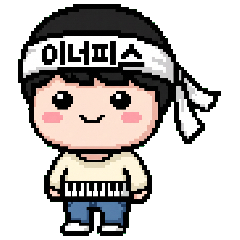
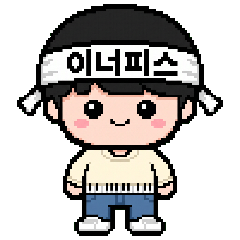
게임 화면 확대(비율 유지), 유경 울릉도, 본혁 정면, 수연 단추눈 확대, 차분한 가을 도시 배경, 선택창 캐릭터 축소

diff --git a/game.js b/game.js
@@ -3,9 +3,13 @@
   const cv = $('cv'), ctx = cv.getContext('2d');
   const overlay = $('over');
 
-  const PLAYER_H = 78;        // 캐릭터 그리는 높이(px)
-  const HIT_R = 20;           // 캐릭터 판정 반지름(그림보다 작게 — 억울한 피격 방지)
-  const PAD_Y = PLAYER_H / 2; // 스프라이트가 위아래로 잘리지 않게 두는 여백
+  const BASE_W = 480;         // 이 폭을 기준으로 모든 크기를 비례해서 키운다
+  const PLAYER_H0 = 78;       // 기준 폭에서의 캐릭터 높이(px)
+  const HIT_R0 = 20;          // 기준 폭에서의 판정 반지름 (그림보다 작게 — 억울한 피격 방지)
+  let k = 1;                  // 화면 배율
+  const playerH = () => PLAYER_H0 * k;
+  const hitR = () => HIT_R0 * k;
+  const padY = () => playerH() / 2;   // 스프라이트가 위아래로 잘리지 않게 두는 여백
   const LIVES = 3;
   const INVULN = 0.8;         // 피격 후 무적 시간(초)
   const FEVER = 5;            // 피버타임 길이(초)
@@ -121,9 +125,10 @@
   }
 
   function resize() {
-    W = Math.min(480, window.innerWidth - 30);
-    H = Math.min(640, window.innerHeight - 190);
+    W = Math.min(620, window.innerWidth - 30);
+    H = Math.min(830, window.innerHeight - 170);
     if (H < 320) H = 320;
+    k = W / BASE_W;
     const dpr = window.devicePixelRatio || 1;
     cv.style.width = W + 'px';
     cv.style.height = H + 'px';
@@ -131,8 +136,8 @@
     cv.height = Math.round(H * dpr);
     ctx.setTransform(dpr, 0, 0, dpr, 0, 0);
     ctx.imageSmoothingEnabled = false;
-    px = state === 'playing' ? clamp(px, HIT_R, W - HIT_R) : W / 2;
-    py = H - PAD_Y;                       // 바닥 고정. 세로로는 움직이지 않는다
+    px = state === 'playing' ? clamp(px, hitR(), W - hitR()) : W / 2;
+    py = H - padY();                      // 바닥 고정. 세로로는 움직이지 않는다
     if (art) draw();
   }
 
@@ -141,7 +146,7 @@
     elapsed = 0; lives = LIVES; invuln = 0; spawnTimer = 0;
     fever = 0; feverTimer = FEVER_EVERY * 0.6; points = 0;
     Bgm.setFever(false);
-    px = W / 2; py = H - PAD_Y;
+    px = W / 2; py = H - padY();
     state = 'playing';
     overlay.classList.add('hide');
     updateHud();
@@ -180,20 +185,20 @@
       kind, w, h, rot: 0, spin,
       x: Math.random() * Math.max(1, W - w),
       y: -h - 4,
-      vy,
-      vx: (Math.random() - 0.5) * 90        // 좌우로도 흘러서 세로만 피해서는 안 된다
+      vy: vy * k,
+      vx: (Math.random() - 0.5) * 90 * k    // 좌우로도 흘러서 세로만 피해서는 안 된다
     });
   }
 
   function spawn() {
     const d = difficulty(elapsed);
     const kind = art.hazards[Math.floor(Math.random() * art.hazards.length)];
-    push(kind, 30 + Math.random() * 12, 250 + Math.random() * 110 + d * 430,
+    push(kind, (30 + Math.random() * 12) * k, 250 + Math.random() * 110 + d * 430,
          (Math.random() - 0.5) * 2.5);
   }
 
   function spawnFever() {
-    push(art.fever, 36, 190 + Math.random() * 50, 0);
+    push(art.fever, 36 * k, 190 + Math.random() * 50, 0);
   }
 
   function hits(it) {
@@ -203,7 +208,7 @@
     const y1 = it.y + my, y2 = it.y + it.h - my;
     const nx = clamp(px, x1, x2), ny = clamp(py, y1, y2);
     const dx = px - nx, dy = py - ny;
-    return dx * dx + dy * dy < HIT_R * HIT_R;
+    return dx * dx + dy * dy < hitR() * hitR();
   }
 
   function loop(now) {
@@ -290,7 +295,7 @@
     // 무적 중에는 캐릭터가 깜빡인다
     const blink = state === 'playing' && fever <= 0 && invuln > 0 && Math.floor(invuln * 12) % 2 === 0;
     if (!blink) {
-      const ph = PLAYER_H, pw = ph * (art.player.width / art.player.height);
+      const ph = playerH(), pw = ph * (art.player.width / art.player.height);
       ctx.globalAlpha = state === 'over' ? 0.55 : 1;
       ctx.drawImage(art.player, px - pw / 2, py - ph / 2, pw, ph);
       ctx.globalAlpha = 1;
@@ -298,12 +303,12 @@
 
     if (fever > 0) {                       // 피버 중임을 화면 테두리로 알린다
       ctx.strokeStyle = Math.floor(fever * 8) % 2 ? '#ffe14d' : '#ff4f8b';
-      ctx.lineWidth = 6;
-      ctx.strokeRect(3, 3, W - 6, H - 6);
+      ctx.lineWidth = 6 * k;
+      ctx.strokeRect(3 * k, 3 * k, W - 6 * k, H - 6 * k);
     }
 
     ctx.textAlign = 'center';
-    ctx.font = 'bold 16px Galmuri, monospace';
+    ctx.font = `bold ${Math.round(16 * k)}px Galmuri, monospace`;
     for (const p of pops) {
       ctx.globalAlpha = Math.max(0, 1 - p.t / 0.7);
       ctx.fillStyle = p.good ? '#ffe14d' : '#ff5577';
@@ -320,7 +325,7 @@
   cv.addEventListener('pointermove', e => {
     if (state !== 'playing') return;
     const r = cv.getBoundingClientRect();
-    px = clamp(e.clientX - r.left, HIT_R, W - HIT_R);   // 좌우만 따라간다
+    px = clamp(e.clientX - r.left, hitR(), W - hitR());   // 좌우만 따라간다
   });
   cv.addEventListener('pointerdown', e => e.preventDefault());
 

diff --git a/index.html b/index.html
@@ -52,14 +52,14 @@
     text-shadow: 2px 2px 0 rgba(255,255,255,.6);
   }
   .arrow:hover { color: #e8407a; }
-  .side { width: 86px; height: 110px; display: flex; align-items: flex-end; justify-content: center; }
-  .side img { height: 84px; width: 84px; opacity: .5; }
+  .side { width: 68px; height: 86px; display: flex; align-items: flex-end; justify-content: center; }
+  .side img { height: 62px; width: 62px; opacity: .5; }
 
   #frame {
-    width: 176px; height: 176px; background: #fff;
+    width: 132px; height: 132px; background: #fff;
     display: flex; align-items: center; justify-content: center;
   }
-  #frame img { height: 168px; width: 168px; }
+  #frame img { height: 124px; width: 124px; }
 
   #meta { margin-top: 18px; }
   #cname { font-size: 33px; font-weight: 700; text-shadow: 2px 2px 0 rgba(255,255,255,.7); }
@@ -89,7 +89,7 @@
   #play { display: none; width: 100%; flex-direction: column; align-items: center; padding: 14px 12px 26px; }
   #play.on { display: flex; }
   #bar {
-    width: 100%; max-width: 480px;
+    width: 100%; max-width: 620px;
     display: flex; align-items: center; justify-content: space-between; gap: 8px;
     background: #fff; border: 4px solid #17263f; padding: 8px 10px; margin-bottom: 8px;
     font-size: 12px; font-weight: 700;
@@ -122,7 +122,7 @@
   #over .s { font-size: 12px; line-height: 1.9; font-weight: 700; }
   #over .h { font-size: 11px; line-height: 1.9; color: #4b5f80; }
   #over .btns { display: flex; gap: 8px; margin-top: 4px; flex-wrap: wrap; justify-content: center; }
-  #tips { margin-top: 12px; font-size: 11px; line-height: 1.9; text-align: center; max-width: 480px; }
+  #tips { margin-top: 12px; font-size: 11px; line-height: 1.9; text-align: center; max-width: 620px; }
 </style>
 </head>
 <body>

diff --git a/chars.js b/chars.js
@@ -10,7 +10,7 @@ const CHARS = [
     fever: { img: 'fev-headphones', name: '헤드폰' } },
   { id: 'seungil', name: '승일', team: '마케팅2팀',  tint: '#ffdfb0', want: '칸쿤',
     fever: { img: 'fev-bat',        name: '박쥐' } },
-  { id: 'yukyung', name: '유경', team: '사업전략',   tint: '#d7eec6', want: '밴쿠버',
+  { id: 'yukyung', name: '유경', team: '사업전략',   tint: '#d7eec6', want: '울릉도',
     fever: { img: 'fev-filmreel',   name: '필름 릴' } },
   { id: 'hyunho',  name: '현호', team: 'AI AX Lab', tint: '#ffe0cf', want: '밴쿠버',
     fever: { img: 'fev-web',        name: '거미줄' } },
